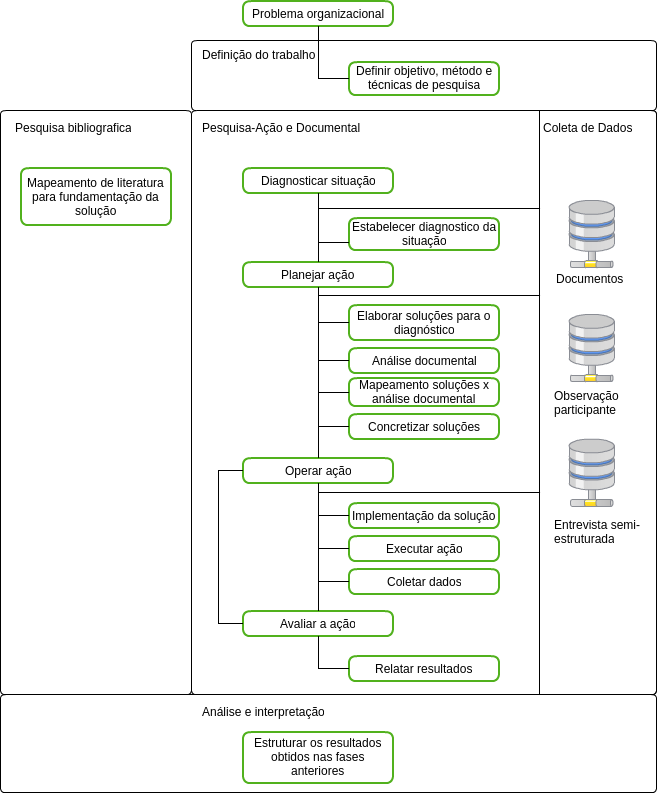
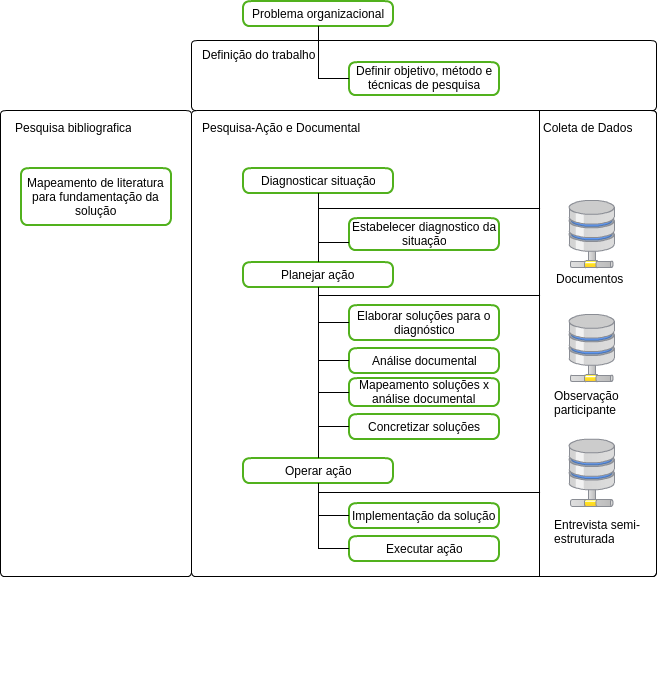
Realizado alterações na metodologia

diff --git a/editaveis/elementosdotexto.tex b/editaveis/elementosdotexto.tex
@@ -101,9 +101,7 @@ Nas subseções seguintes serão detalhados a pesquisa-ação e a Entrevista sem
 
 \subsection{Pesquisa-Ação}
 
-(Será substituído pela pesquisa participante, mantido apenas para comparação)
-
-Com o grande uso e aumento da sua amplitude e aplicação, a pesquisa-ação tornou-se atualmente um termo aplicado de "forma vaga" a qualquer tipo de tentativa de melhora ou de investigação da prática. A investigação-ação ainda pode ser definida como um termo genérico para qualquer processo que siga um ciclo no qual se aprimora a prática pela oscilação sistemática entre agir no campo da prática e investigar a respeito dela \cite{tripp2005pesquisa}.
+Com o grande uso e aumento da sua amplitude e aplicação, a pesquisa-ação tornou-se atualmente um termo aplicado de "forma vaga" a qualquer tipo de tentativa de melhora ou de investigação da prática. A pesquisa-ação ainda pode ser definida como um termo genérico para qualquer processo que siga um ciclo no qual se aprimora a prática pela oscilação sistemática entre agir no campo da prática e investigar a respeito dela \cite{tripp2005pesquisa}.
 
 Para \citeonline{thiollent2009pesquisa} no decorrer da pesquisa-ação ocorre um efeito de aprendizagem, por vezes concebido como conscientização. A pesquisa alimenta a ação e vice-versa, sendo que a aprendizagem é difusa ao longo do processo.
 
@@ -113,7 +111,7 @@ Essa metodologia é caracterizada como um método flexível, qualificada pelo co
 
 Segundo \citeonline{thiollent2009pesquisa}, o processo de pesquisa-ação não existe de forma padronizada, pois, dependendo da situação social ou do quadro organizacional em que se aplica, os procedimentos e a ordenação das etapas podem variar. O autor também destaca que as três primeiras fases podem ocorrer simultaneamente.
 
-Baseado nessas informações sobre o processo de pesquisa-ação, das quatro fases básicas previstas, foram adotadas somente três, ficando excluída a fase de avaliação, por questões de viabilidade do escopo do trabalho (avaliação da efetividade da ação será um trabalho futuro). Essas fases adotadas foram utilizadas na adaptação das fases do processo estabelecido por \citeonline{coughlan2002action}, e o processo de pesquisa-ação adotado neste trabalho é ilustrado na figura 2, onde a cor amarela indica que a fase está fora do escopo do trabalho.
+Baseado nessas informações sobre o processo de pesquisa-ação, das quatro fases básicas previstas, foram adotadas somente três, ficando excluída a fase de avaliação, por questões de viabilidade do escopo do trabalho (avaliação da efetividade da ação será um trabalho futuro). Essas fases adotadas foram utilizadas na adaptação das fases do processo estabelecido por \citeonline{coughlan2002action}, e o processo de pesquisa-ação adotado neste trabalho é ilustrado na figura \ref{figura_pesquisa_acao}, onde a cor amarela indica que a fase está fora do escopo do trabalho.
 
 \begin{comment}
 Baseado nessas informações sobre o processo de pesquisa-ação, além das quatro fases básicas previstas, vamos adotar mais uma fase adicional, a fase de coleta de dados, e seguir uma adaptação das fases do processo conforme estabelecido por \citeonline{coughlan2002action}. Dessa forma iremos neste trabalho adotar o processo de pesquisa ação exibido na figura 2, para a condução do procedimento.
@@ -123,6 +121,7 @@ Baseado nessas informações sobre o processo de pesquisa-ação, além das quat
 	\centering
 	\includegraphics[scale=0.6]{figuras/estruturacao_pesquisa_acao_2}
 	\caption{Estruturação para pesquisa-ação. Fonte: \cite{coughlan2002action}, adaptado}
+	\label{figura_pesquisa_acao}
 \end{figure}
 
 \newpage
@@ -164,6 +163,34 @@ Segundo RAUEN a observação participante pressupõe cinco fases:
 Nesse tipo de pesquisa o grupo tem expectativas com relação a pesquisadores. Muitas dessas expectativas incluem preconceitos e desconfianças. Assim, uma das tarefas do pesquisador é destruir as barreiras que bloqueiam a relação com o grupo.
 
 O pesquisador deve considerar que ele é um elemento que está no grupo, mas não é do grupo. Ele possui um papel que transcende ao grupo. Portanto, é preciso que seja aceito na função que de fato tem, ou seja, um pesquisador interessado em analisar um problema no grupo.
+
+\subsection{Pesquisa-Ação Participante}
+
+Dado a proximidade das duas pesquisas e como as suas diferenças tem como base que a pesquisa participante tem o propósito de emancipação do pesquisador, fazendo parte e sendo aceito pela comunidade em que atua, podendo assim ter a liberdade de decisão sobre as ações referente a comunidade. Pode-se então aliar o procedimento das fases da pesquisa-ação com as fases da pesquisa participante seguindo o conceito dos dois procedimentos.
+
+A partir dos conceitos das duas pesquisas, foi tomado para o trabalho a integração dos conceitos destes dois procedimentos juntamente com suas fases adaptadas ao contexto do trabalho, pois uma vez que os dois procedimentos permitem adaptações de suas fases ao contexto onde se está aplicando, foi elaborado e adaptado as fases para o contexto analisado. 
+
+Tomando então como base a figura \ref{figura_pesquisa_acao}, na fase "analisar dados e planejar ações" da pesquisa-ação elaborou-se o seguinte ciclo para pesquisa participante conforme a figura \ref{figura_pesquisa_participante}:
+
+\begin{figure}[!htb]
+	\centering
+	\includegraphics[scale=0.6]{figuras/Fases_pesquisa_participante}
+	\caption{Estruturação para pesquisa participante. Fonte: Autores, adaptado}
+	\label{figura_pesquisa_participante}
+\end{figure}
+
+Este ciclo contempla as fases da pesquisa participante "aproximação do grupo" e "processo de inserção", pois um dos pesquisadores está inserido no local pesquisado, e o outro já fez parte do mesmo. Para as fases "observação", "análise crítica dos dados colhidos" e "retorno para discussão e avaliação dos resultados", foi elaborado de acordo com a figura \ref{figura_pesquisa_participante} as fases "observação", "planejamento da sprint", "executar a sprint" e "avaliação da sprint" que irão ser percorridas em ciclos iterativos dentro da fase de "implementar ações" da pesquisa-ação, sendo n iterações a depender do andamento da implementação da solução ou sistema e de acordo com cada observação realizada em cada iteração.
+
+Cada fase adaptada da pesquisa participante temos o seguinte paralelo e objetivo:
+
+\begin{itemize}
+	\item Observação: Será reliada a verificação dos dados obtidos e das necessidades observadas enquanto participante do ambiente pesquisado, no caso o órgão inserido.
+	\item Planejamento da Sprint: Faz-se uma equivalência com a fase de análise crítica dos dados colhidos da pesquisa participante, onde nesse caso é realizada uma análise dos dados obtidos e das necessidades observadas fazendo adequações necessárias e realizando o planejamento da sprint com os objetos a serem implementados.
+	\item Execução da Sprint: Nessa fase são implementados os objetos planejados na sprint.
+	\item Avaliação da Sprint: Essa fase é equivalente a fase de retorno para a discussão e avaliação dos resultados da pesquisa participante, onde será avaliado e discutido os resultados da sprint, podendo caso necessite, realizar mudanças no escopo que foi planejado como alterar, incluir ou retirar dos dados obtidos os objetos a serem implementados sempre objetivando o que é melhor para o órgão, uma vez que o pesquisador é envolvido e faz parte do mesmo.
+\end{itemize}
+
+
 
 \subsection{Entrevista Semi-Estruturada}
 
@@ -231,13 +258,14 @@ A partir da metodologia, foram definidas as fases e etapas do trabalho, sendo qu
 	\item Análise e interpretação
 \end{itemize}
 
-Na Figura 3 pode-se observar o plano metodológico adotado para este trabalho e em seguida
+Na Figura \ref{plano_metodologico} pode-se observar o plano metodológico adotado para este trabalho e em seguida
 uma descrição de cada uma das fases.
 
 \begin{figure}[!htb]
 	\centering
 	\includegraphics[scale=0.6]{figuras/Plano_metodologico}
 	\caption{Plano metodológico adotado. Fonte: autores}
+	\label{plano_metodologico}
 \end{figure}
 
 \newpage
@@ -258,10 +286,6 @@ Esta fase é a base do trabalho, onde será realizada as etapas definidas do pro
 \textit{Coletas de dados}
 
 Esta fase inclui a realização de entrevistas e análise dos documentos e experiências do Órgão X referentes ao desenvolvimento descentralizado.
-
-\textit{Análise e Interpretação}
-
-Nesta fase os resultados obtidos nas fases anteriores foram analisados e verificou-se a efetividade da solução para apoiar o desenvolvimento descentralizado no órgão.
 
 \section{\textit{Organização do Trabalho}}
 
